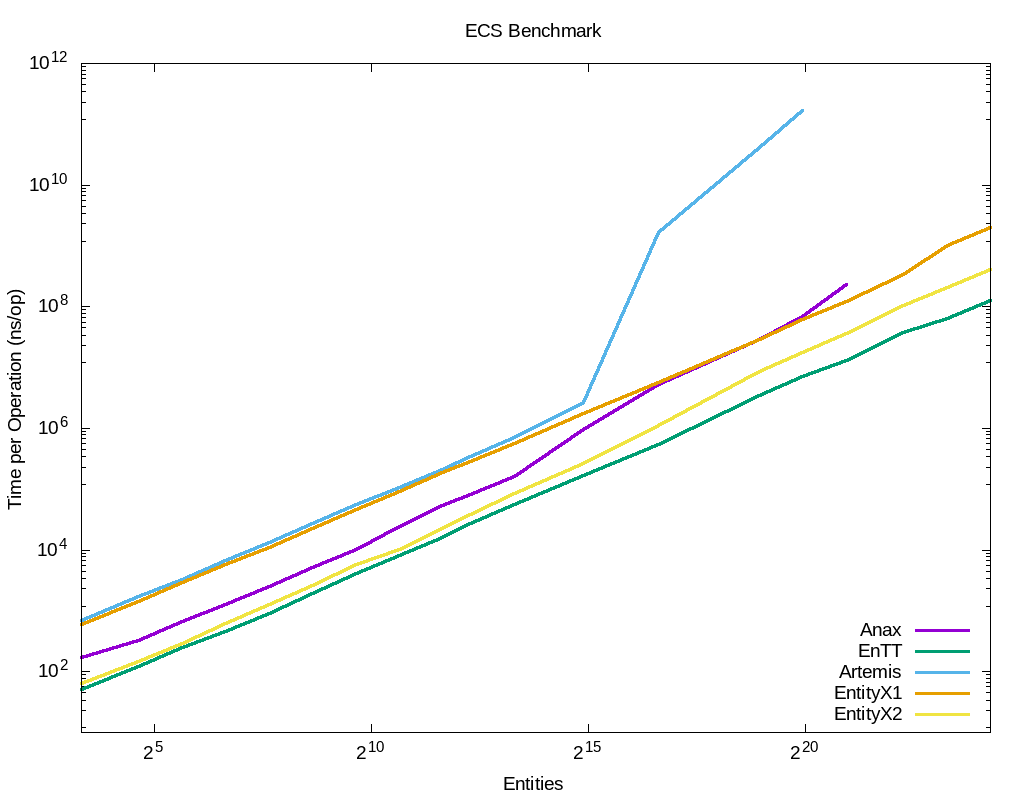
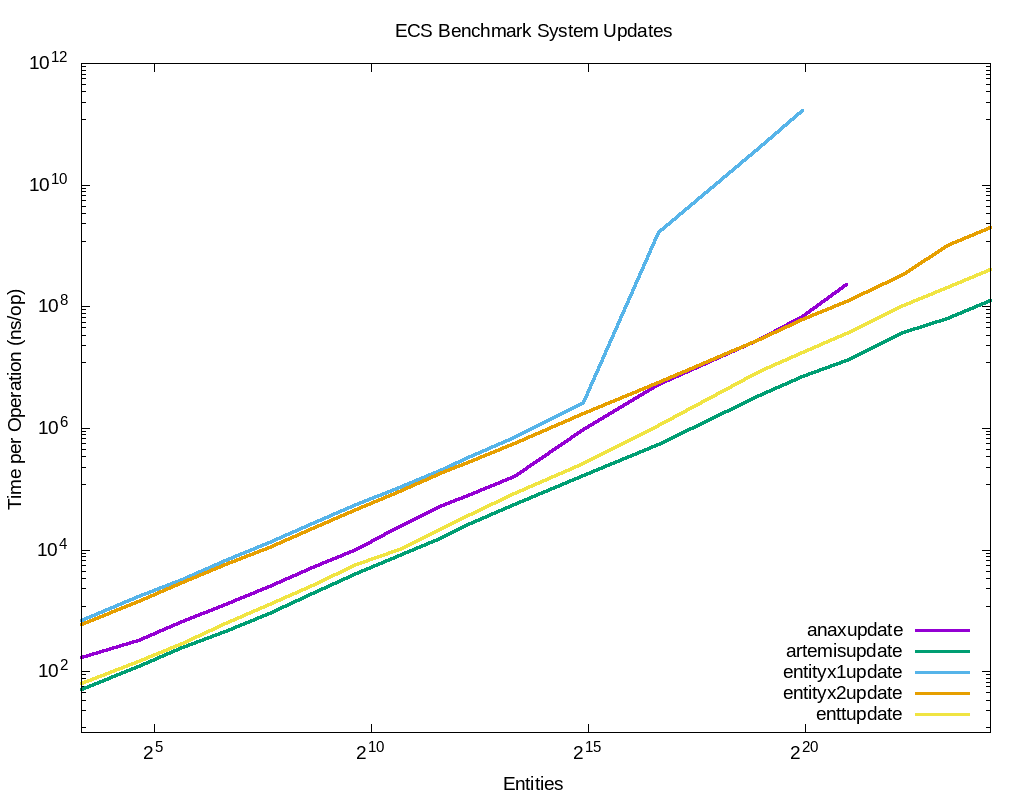
fix plot

Changed region(s): [[0.75, 0.7812, 0.9062, 0.9062], [0.375, 0.0312, 0.6562, 0.0625]]

diff --git a/scripts/run_benchmark/__main__.py b/scripts/run_benchmark/__main__.py
@@ -28,8 +28,10 @@ def main(argv):
 
 
     dateinfo = os.popen("date").read()
+    dateinfo = dateinfo.replace("\n", '')
 
     osinfo = os.popen("uname -o -r -m").read()
+    osinfo = osinfo.replace("\n", '')
 
     cpuinfo = os.popen("lscpu -y | grep -i 'Model name'").read()
     cpuinfo = cpuinfo.replace('Model name:', '').strip()
@@ -145,13 +147,11 @@ def main(argv):
 
 
 
-    benchmarkHeaders = {}
-    benchmarkRows = {}
-
     def genBenchmarkData(name, csvfiles, getrowdata):
         benchmarkheadertitle = 'Benchmark'
 
         retHeaders = []
+        retFnames = []
         names = set()
         retRows = {}
 
@@ -172,6 +172,8 @@ def main(argv):
                 fnameheader = 'Artemis'
 
             retHeaders.append(fnameheader)
+            retFnames.append(fname)
+
             if os.path.exists(filenamecsv):
                 with open(filenamecsv) as csvfile:
                     readCSV = csv.reader(csvfile)
@@ -204,7 +206,7 @@ def main(argv):
                         retRows[name][fnameheader] = 'N/A'
 
 
-        return {'headers': retHeaders, 'rows': retRows}
+        return {'headers': retHeaders, 'rows': retRows, 'fnames': retFnames}
 
 
 
@@ -212,6 +214,10 @@ def main(argv):
 
 
 
+    ### @TODO: refactoring for later, needs to be a class ...
+    benchmarkHeaders = {}
+    benchmarkRows = {}
+    benchmarkFnames = {}
 
     benchmarkname = '10Mentities'
     def getrowdata10Mentities(row):
@@ -236,6 +242,7 @@ def main(argv):
     benchmark = genBenchmarkData(benchmarkname, csvfiles[benchmarkname], getrowdata10Mentities)
     benchmarkHeaders[benchmarkname] = benchmark['headers']
     benchmarkRows[benchmarkname] = benchmark['rows']
+    benchmarkFnames[benchmarkname] = benchmark['fnames']
 
 
 
@@ -265,6 +272,7 @@ def main(argv):
     benchmark = genBenchmarkData(benchmarkname, csvfiles[benchmarkname], getrowdataUpdate)
     benchmarkHeaders[benchmarkname] = benchmark['headers']
     benchmarkRows[benchmarkname] = benchmark['rows']
+    benchmarkFnames[benchmarkname] = benchmark['fnames']
 
     if RUNBENCHMARKUPDATE2:
         benchmarkname = 'update2'
@@ -293,10 +301,12 @@ def main(argv):
         benchmark = genBenchmarkData(benchmarkname, csvfiles[benchmarkname], getrowdataUpdate2)
         benchmarkHeaders[benchmarkname] = benchmark['headers']
         benchmarkRows[benchmarkname] = benchmark['rows']
+        benchmarkFnames[benchmarkname] = benchmark['fnames']
     else:
         benchmarkname = 'update2'
-        benchmarkHeaders[benchmarkname] = {}
+        benchmarkHeaders[benchmarkname] = []
         benchmarkRows[benchmarkname] = {}
+        benchmarkFnames[benchmarkname] = []
 
 
     benchmarkname = 'eventbus'
@@ -325,6 +335,9 @@ def main(argv):
     benchmark = genBenchmarkData(benchmarkname, csvfiles[benchmarkname], getrowdataEventbus)
     benchmarkHeaders[benchmarkname] = benchmark['headers']
     benchmarkRows[benchmarkname] = benchmark['rows']
+    benchmarkFnames[benchmarkname] = benchmark['fnames']
+
+
 
     for benchmark, csvdata in benchmarkRows.items():
         benchmark_csv =  os.path.abspath(doc_csv_dir + "/" + benchmark + "_results.csv")
@@ -348,11 +361,9 @@ def main(argv):
 
 
 
-
-
     if PLOT:
 
-        def genPlotScript(benchmarkname, pltfilename, params):
+        def makePlotScript(benchmarkname, pltfilename, params):
             plttmpl = ''
             data_plt_tmpl =  os.path.abspath(thispath + "/data.plt.tmpl")
             with open(data_plt_tmpl, 'r') as data_plt_tmplfile:
@@ -361,11 +372,12 @@ def main(argv):
             headers = []
             i=2
             for h in params['headers']:
-                headers.append({
-                    'header': h,
-                    'col': i
-                })
-                i = i+1
+                if h != 'Benchmark':
+                    headers.append({
+                        'header': h,
+                        'col': i
+                    })
+                    i = i+1
 
             params['headers'] = headers
 
@@ -374,48 +386,70 @@ def main(argv):
             with open(pltfilename, "w") as data_pltfile:
                 data_pltfile.write(data_plt)
         
+
         pltfiles = {}
 
-        benchmarkname = 'update'
-        params = {
-            'headers': benchmarkHeaders[benchmarkname],
-            'output': 'systems-update-result.png',
-            'xlabel': 'Entities',
-            'ylabel': 'Time per Operation (ns/op)',
-            'title': 'ECS Benchmark System Updates'
-        }
-        pltfiles[benchmarkname] = os.path.abspath(scripts_dir + "/data-systems-update.plt")
+        if os.path.exists(data_systems_update_dat):
+            benchmarkname = 'update'
+            ## header name in plot is different, so correct it ...
+            headers = []
+            for f in benchmarkFnames[benchmarkname]:
+                headers.append(f + 'update')
+            headers.sort() # need to be in alphabetic order
+            params = {
+                'headers': headers, 
+                'output': 'systems-update-result.png',
+                'xlabel': 'Entities',
+                'ylabel': 'Time per Operation (ns/op)',
+                'title': 'ECS Benchmark System Updates',
+                'data_dat':  os.path.relpath(data_systems_update_dat, doc_dir)
+            }
+            pltfiles[benchmarkname] = os.path.abspath(scripts_dir + "/data-systems-update.plt")
+            makePlotScript(benchmarkname, pltfiles[benchmarkname], params)
 
-        benchmarkname = 'update2'
-        params = {
-            'headers': benchmarkHeaders[benchmarkname],
-            'output': 'systems-update-result-2.png',
-            'xlabel': 'Entities',
-            'ylabel': 'Time per Operation (ns/op)',
-            'title': 'ECS Benchmark System Updates'
-        }
-        pltfiles[benchmarkname] = os.path.abspath(scripts_dir + "/data-systems-update-2.plt")
+        if RUNBENCHMARKUPDATE2:
+            if os.path.exists(data_systems_update_2_dat):
+                benchmarkname = 'update2'
+                ## header name in plot is different, so correct it ...
+                headers = []
+                for f in benchmarkFnames[benchmarkname]:
+                    headers.append(f + 'update')
+                headers.sort() # need to be in alphabetic order
+                params = {
+                    'headers': headers, 
+                    'output': 'systems-update-result-2.png',
+                    'xlabel': 'Entities',
+                    'ylabel': 'Time per Operation (ns/op)',
+                    'title': 'ECS Benchmark System Updates',
+                    'data_dat':  os.path.relpath(data_systems_update_2_dat, doc_dir)
+                }
+                pltfiles[benchmarkname] = os.path.abspath(scripts_dir + "/data-systems-update-2.plt")
+                makePlotScript(benchmarkname, pltfiles[benchmarkname], params)
 
-        benchmarkname = 'eventbus'
-        params = {
-            'headers': benchmarkHeaders[benchmarkname],
-            'output': 'eventbus-result.png',
-            'xlabel': 'Publish Events',
-            'ylabel': 'Time per Operation (ns/op)',
-            'title': 'ECS Benchmark Eventbus'
-        }
-        pltfiles[benchmarkname] = os.path.abspath(scripts_dir + "/data-eventbus.plt")
+        if os.path.exists(data_eventbus_dat):
+            benchmarkname = 'eventbus'
+            ## header name in plot is different, so correct it ...
+            headers = []
+            for f in benchmarkFnames[benchmarkname]:
+                headers.append(f + '-eventbus')
+            headers.sort() # need to be in alphabetic order
+            params = {
+                'headers': headers, 
+                'output': 'eventbus-result.png',
+                'xlabel': 'Publish Events',
+                'ylabel': 'Time per Operation (ns/op)',
+                'title': 'ECS Benchmark Eventbus',
+                'data_dat':  os.path.relpath(data_eventbus_dat, doc_dir)
+            }
+            pltfiles[benchmarkname] = os.path.abspath(scripts_dir + "/data-eventbus.plt")
+            makePlotScript(benchmarkname, pltfiles[benchmarkname], params)
 
 
 
 
         os.chdir(doc_dir)
-        if os.path.exists(data_systems_update_dat):
-            os.system('gnuplot ' + pltfiles['update'])
-        if os.path.exists(data_systems_update_2_dat):
-            os.system('gnuplot ' + pltfiles['update2'])
-        if os.path.exists(data_eventbus_dat):
-            os.system('gnuplot ' + pltfiles['eventbus'])
+        for benchmarkname, pltfile in pltfiles.items():
+            os.system('gnuplot ' + pltfile)
         os.chdir(root_dir)
 
 

diff --git a/scripts/run_benchmark/run_benchmark.py b/scripts/run_benchmark/run_benchmark.py
@@ -7,11 +7,11 @@ import csv
 import pystache
 
 ## settings
-BENCHMARK=True
+BENCHMARK=False
 RUNBENCHMARKUPDATE2=True
 PLOT=True
-GENCSVFILES=True
-GENREADME=True
+GENCSVFILES=False
+GENREADME=False
 
 
 
